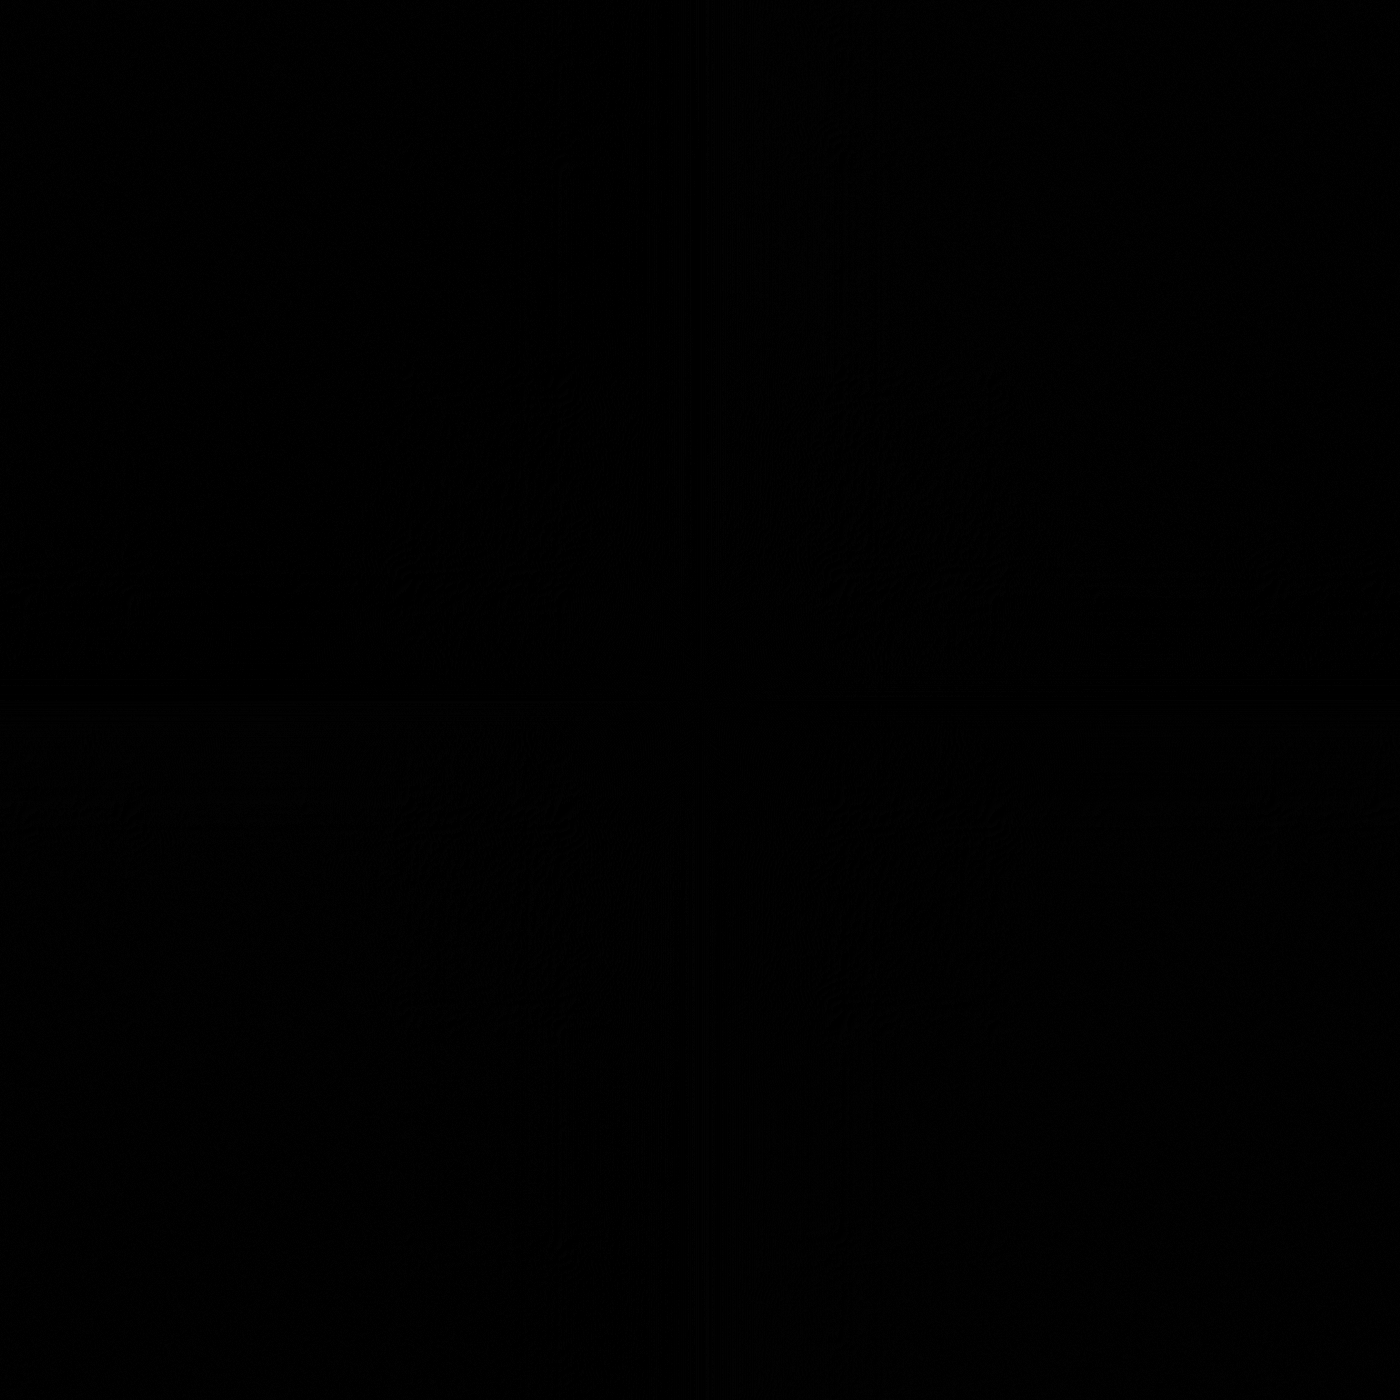
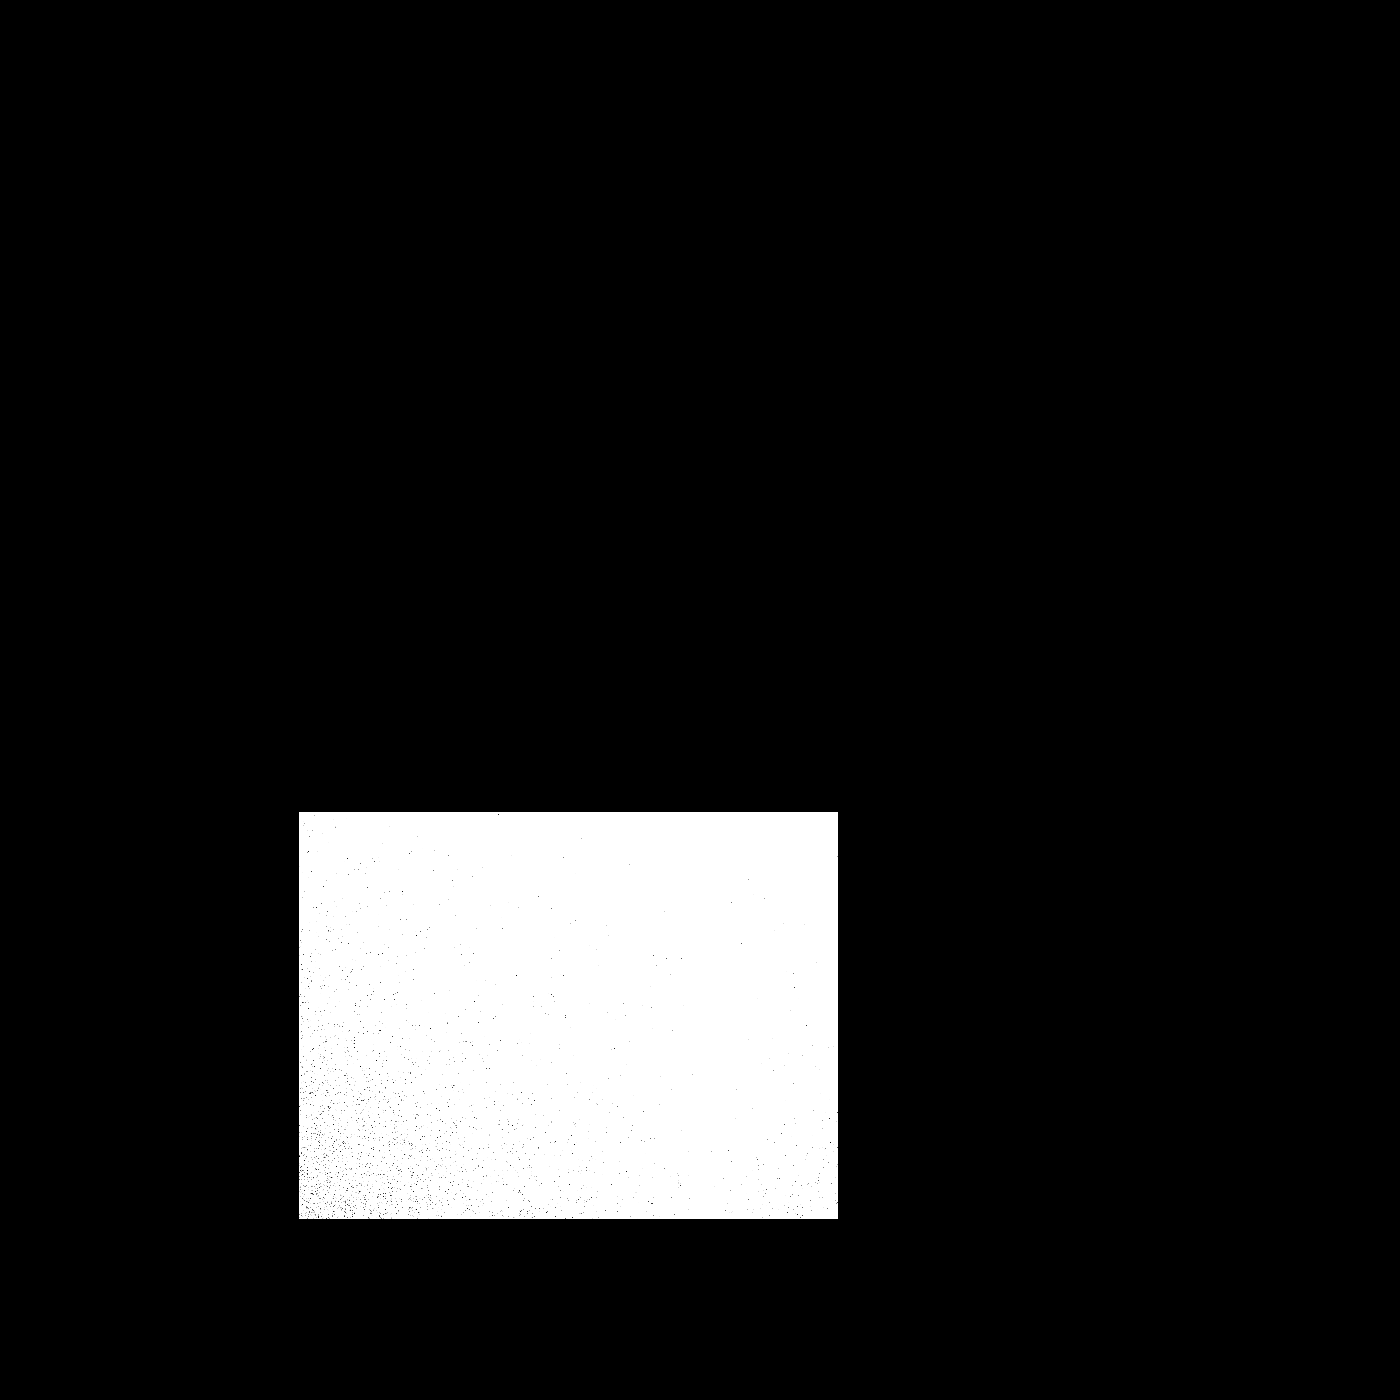
layout

Changed region(s): [[0.215, 0.5529, 0.6143, 0.8907]]

diff --git a/client/src/Components/Crop/Result/Result.css b/client/src/Components/Crop/Result/Result.css
@@ -1,0 +1,47 @@
+.result{
+    display: flex;
+    flex-direction: column;
+    justify-content: center;
+    height: 100%;
+}
+
+.image-result{
+    background-color: var(--image-background-color);
+    display: flex;
+    flex-direction: column;
+    justify-content: center;
+    align-items: center;
+    border-color: transparent;
+    /* height: 50%;
+    border-style: solid;
+    border-color: var(--space-color);
+    border-width: 35px;
+    border-radius: 15px; */
+}
+
+.borders{
+    height: 35px;
+    width: 100%;
+    display: flex;
+    flex-direction: row;
+    justify-content: space-between;
+}
+.borders div{
+    height: 35px;
+    background-color: var(--space-color);
+    width: 35px;
+    border-color: transparent;
+}
+
+.up div:nth-child(1){
+    border-top-left-radius: 15px;
+}
+.up div:nth-child(2){
+    border-top-right-radius: 15px;
+}
+.down div:nth-child(1){
+    border-bottom-left-radius: 15px;
+}
+.down div:nth-child(2){
+    border-bottom-right-radius: 15px;
+}

diff --git a/client/src/Components/Crop/Result/Result.jsx b/client/src/Components/Crop/Result/Result.jsx
@@ -8,10 +8,20 @@ const Result = () => {
         resultURL,
         setResultURL
       } = useContext(FileContext);
-
+    
   return (
-    <div>
-        <img style={{width:"15rem",height:"15rem"}} src={resultURL} alt="" />
+    <div className='result'>
+      <div className='image-result'>
+          <div className="borders up">
+            <div></div>
+            <div></div>
+          </div>
+          <img style={{width: "40vh",height: "40vh", display: resultURL === undefined ? "none" : null}} src={resultURL} alt="" />
+          <div className="borders down">
+            <div></div>
+            <div></div>
+          </div>
+      </div>
     </div>
   )
 }

diff --git a/client/src/Components/Crop/Second_Mag&phase/CropSecondMagPhase.css b/client/src/Components/Crop/Second_Mag&phase/CropSecondMagPhase.css
@@ -13,21 +13,18 @@
     gap: 1.5vh;
     justify-content: center;
     background-color: transparent;
-    background-color: rgb(0,0,0);
-    background-color: rgba(255,255,255, 0.4);
+    background-color: var(--image-background-color);
     height: inherit;
     padding-top: 0;
     padding-bottom:0;
 }
 
 .space{
-    background-color: red;
     width: 7%;
     border-bottom-left-radius: 15px;
     border-top-left-radius: 15px;
     background-color: whitesmoke;
-    background-color: rgb(0,0,0);
-    background-color: rgba(0,0,0, 0.65);
+    background-color: var(--space-color);
 }
 
 .test{

diff --git a/client/src/Components/Crop/First_Mag&phase/CropFirstMagPhase.css b/client/src/Components/Crop/First_Mag&phase/CropFirstMagPhase.css
@@ -13,8 +13,7 @@
     gap: 1.5vh;
     justify-content: center;
     background-color: transparent;
-    background-color: rgb(0,0,0);
-    background-color: rgba(255,255,255, 0.4);
+    background-color: var(--image-background-color);
     height: inherit;
     padding-top: 0;
     padding-bottom:0;
@@ -26,8 +25,7 @@
     border-bottom-left-radius: 15px;
     border-top-left-radius: 15px;
     background-color: whitesmoke;
-    background-color: rgb(0,0,0);
-    background-color: rgba(0,0,0, 0.65);
+    background-color: var(--space-color);
 }
 
 .test{

diff --git a/client/src/Components/Crop/OriginFirst/CropFirstImg.css b/client/src/Components/Crop/OriginFirst/CropFirstImg.css
@@ -14,8 +14,7 @@
     gap: 1.5vh;
     justify-content: center;
     background-color: transparent;
-    background-color: rgb(0,0,0);
-    background-color: rgba(255,255,255, 0.4);
+    background-color: var(--image-background-color);
     height: inherit;
     padding-top: 0;
     padding-bottom: 2.5vh;
@@ -40,8 +39,7 @@
     gap: 9vh;
     background-color: whitesmoke;
     padding: 0.6% 0% 0.6% 1.5%;
-    background-color: rgb(0,0,0);
-    background-color: rgba(0,0,0, 0.65);
+    background-color: var(--space-color);
 }
 
 .buttons button{

diff --git a/client/src/Components/Crop/OriginSecond/CropSecondImg.css b/client/src/Components/Crop/OriginSecond/CropSecondImg.css
@@ -14,8 +14,7 @@
     gap: 1.5vh;
     justify-content: center;
     background-color: transparent;
-    background-color: rgb(0,0,0);
-    background-color: rgba(255,255,255, 0.4);
+    background-color: var(--image-background-color);
     height: inherit;
     padding-top: 0;
     padding-bottom: 2.5vh;
@@ -40,8 +39,7 @@
     gap: 2vh;
     background-color: whitesmoke;
     padding: 1.5%;
-    background-color: rgb(0,0,0);
-    background-color: rgba(0,0,0, 0.65);
+    background-color: var(--space-color);
 }
 
 .buttons-second button{

diff --git a/client/src/Components/contexts/fileContext.jsx b/client/src/Components/contexts/fileContext.jsx
@@ -75,7 +75,7 @@ const FileContextProvider = ({ children }) => {
     const [checkMode, setCheckMode] = useState(false);
     const [checkModeBinary,setCheckModeBinary] = useState();
     // result 
-    const [resultURL, setResultURL] = useState(1)
+    const [resultURL, setResultURL] = useState()
 
     return (
         <FileContext.Provider

diff --git a/client/src/index.css b/client/src/index.css
@@ -13,6 +13,10 @@ code {
 }
 
 body {
-  background-color: rgb(0,0,0) !important; /* Fallback color */
-  background-color: rgba(0, 0, 0, 0.5) !important;
+  background-color: rgba(0, 37, 64, 0.2) !important;
+}
+
+:root{
+  --space-color: rgb(20, 46, 84); /*0.9*/
+  --image-background-color : transparent; /*0.4*/
 }

diff --git a/client/src/Components/Layout/Layout.css b/client/src/Components/Layout/Layout.css
@@ -1,3 +1,4 @@
+
 .ReactCrop{
     height: 100% !important;
 }

diff --git a/backend/processing.py b/backend/processing.py
@@ -105,21 +105,21 @@ def resize_image(image_path, flag=1):
 
 
 def construct_image(magnitude, angle,mode =1,**kwargs):
-    # flag = 0
+    flag = 0
     if mode:
         cropMag = kwargs['cropMag']
         cropPhase = kwargs['cropPhase']
         magnitude = crop_2d_img(magnitude,cropMag)
         angle = crop_2d_img(angle,cropPhase)
-        # if(cropPhase['height'] != 0 and cropPhase['width'] != 0):
-        #     flag = 1
+        if(cropPhase['height'] != 0 and cropPhase['width'] != 0):
+            flag = 1
 
 
     combined = np.multiply(magnitude, np.exp(np.multiply(1j,angle)))
     combined = np.fft.ifftshift(combined)
     image_combined = np.abs(np.fft.ifft2(combined))
-    # if flag:
-    image_combined = cv2.equalizeHist(image_combined.astype(np.uint8))
+    if flag:
+        image_combined = cv2.equalizeHist(image_combined.astype(np.uint8))
 
     cv2.imwrite('../backend/files/images/result.png', image_combined)
     return image_combined

diff --git a/backend/image.py b/backend/image.py
@@ -19,7 +19,7 @@ class Image:
 
         for x in range(int(coordinates[0]), int(coordinates[1])):
             for y in range(int(coordinates[2]), int(coordinates[3])):
-                cutted_img[max_height-y, x] = self.image[max_height-y, x]
+                cutted_img[y, x] = self.image[y, x]
         return cutted_img
 
     def points(self,x_percentage, y_percentage, width, height):
